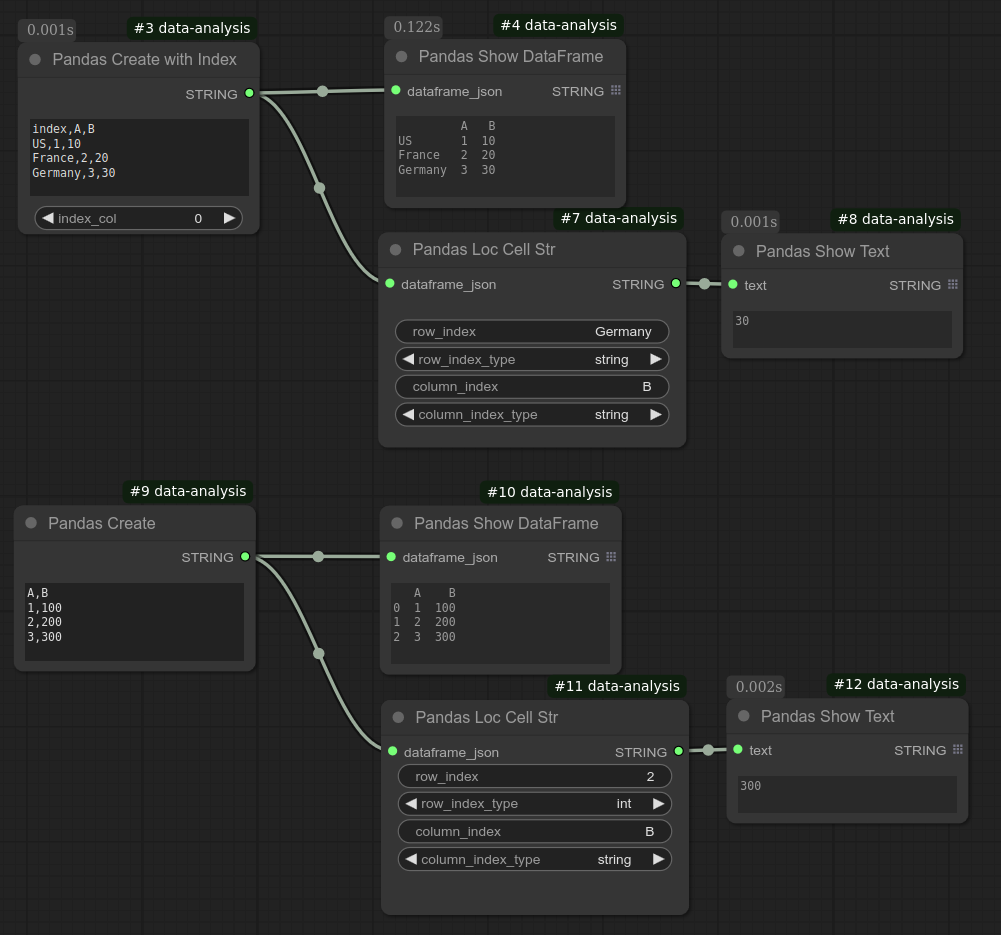
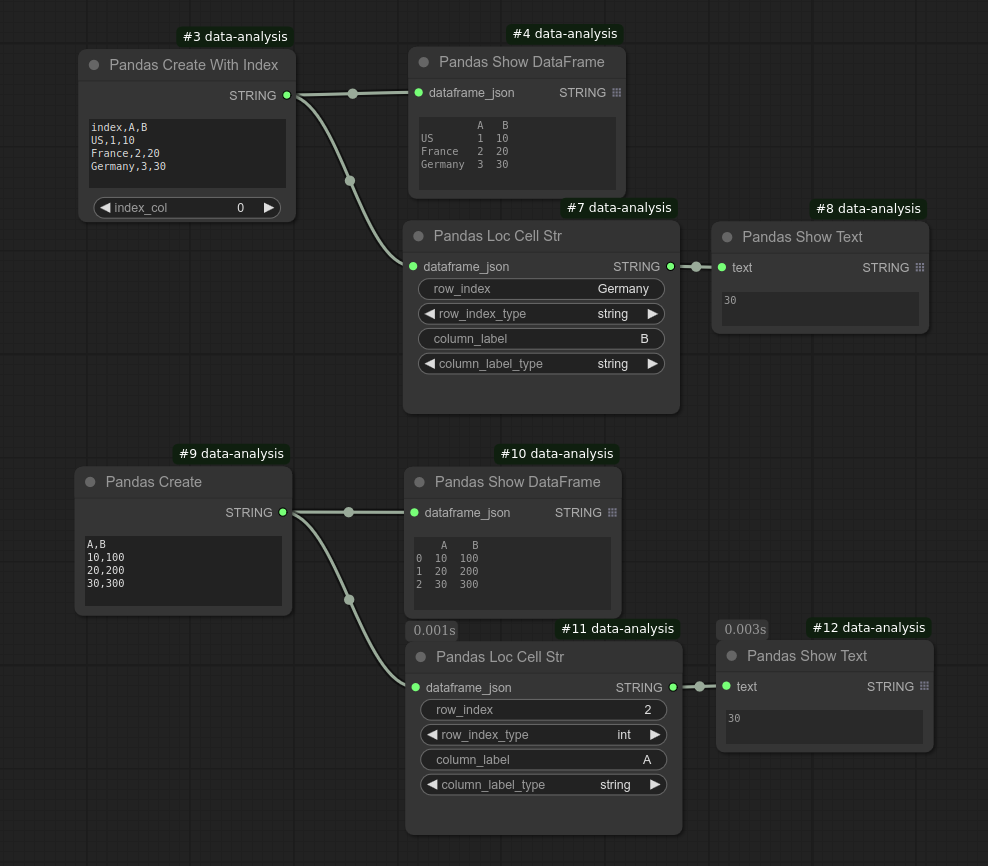
Replaced the occurrence of the words 'column index' with 'column label'.

diff --git a/modules/pandas_wrapper/pandas_loc_cell_str.py b/modules/pandas_wrapper/pandas_loc_cell_str.py
@@ -21,8 +21,8 @@ class PandasLocCellStr:
                 "dataframe_json": ("STRING", {"multiline": True}),
                 "row_index": ("STRING", {"default": ""}),
                 "row_index_type":(("string", "int"),),
-                "column_index": ("STRING", {"default": ""}),
-                "column_index_type":(("string", "int"),)
+                "column_label": ("STRING", {"default": ""}),
+                "column_label_type":(("string", "int"),)
             }
         }
 
@@ -33,8 +33,8 @@ class PandasLocCellStr:
     def cell(self, dataframe_json: str,
              row_index: str,
              row_index_type: str,
-             column_index: str,
-             column_index_type: str) -> tuple:
+             column_label: str,
+             column_label_type: str) -> tuple:
         """
         Selects specific cell from a pandas DataFrame.
 
@@ -42,8 +42,8 @@ class PandasLocCellStr:
             dataframe_json (str): A JSON string representation of the DataFrame.
             row_index (str): The row index (row label) for the cell.
             row_index_type (str): The data type of the row index.
-            column_index (str): The column index (row label) for the cell.
-            column_index_type (str): The data type of the column index.
+            column_label (str): The column label for the cell.
+            column_label_type (str): The data type of the column label.
              
         Returns:
             tuple: A tuple containing the value of the cell in string.
@@ -51,7 +51,7 @@ class PandasLocCellStr:
         # Deserialize JSON string to DataFrame
         df = pd.read_json(StringIO(dataframe_json))
         row_index = int(row_index) if row_index_type == "int" else row_index
-        column_index = int(column_index) if column_index_type == "int" else column_index
+        column_label = int(column_label) if column_label_type == "int" else column_label
 
-        value = df.loc[row_index, column_index]
+        value = df.loc[row_index, column_label]
         return (str(value),)

diff --git a/modules/pandas_wrapper/pandas_iloc_row_series.py b/modules/pandas_wrapper/pandas_iloc_row_series.py
@@ -8,7 +8,7 @@ class PandasIlocRowSeries:
     PandasLocRowSeries:
         A class for selecting a row from a pandas DataFrame and returning it as a Series.
         The row is specified by its integer position, similar to an index in other software.
-        Note: In Pandas, "index" refers to a unique label assigned to each row or column. See https://pandas.pydata.org/docs/reference/api/pandas.DataFrame.iloc.html
+        Note: In Pandas, "index" refers to a unique label assigned to each row. See https://pandas.pydata.org/docs/reference/api/pandas.DataFrame.iloc.html
     """
 
     @classmethod

diff --git a/docs/ug.md b/docs/ug.md
@@ -33,7 +33,7 @@ You can right-click, select **Add Node**, go to **Data Analysis**, and look for 
 | **Pandas Iloc Row Series**  | Select a row by row integer position |
 | **Pandas Iloc Rows DataFrame**  | Select rows by the list of row integer positions |
 | **Pandas Loc Row Series**  | Select a row by row label (index) |
-| **Pandas Loc Cell Str**  | Select a cell by row label (index) and column label (index) |
+| **Pandas Loc Cell Str**  | Select a cell by row label (index) and column label |
 | **Pandas Head**         | Extract the first few rows         |
 
 **Manipulating data**
@@ -111,10 +111,10 @@ For  **Pandas Iloc Row Series**, you only need to specify the row integer positi
 ![Pandas Iloc Row Series](images/iloc_row_series.png)
 
 Note that in Pandas, integer position is an equivalent of an index in other software,
-while "index" means a unique label assigned to each row or column. See [pandas.DataFrame.iloc.html](https://pandas.pydata.org/docs/reference/api/pandas.DataFrame.iloc.html).
+while "index" means a unique label assigned to each row. See [pandas.DataFrame.iloc.html](https://pandas.pydata.org/docs/reference/api/pandas.DataFrame.iloc.html).
 
-## Selecting a cell by row label (index) and column label (index)
-Use **Pandas Loc Cell Str**  for selecting a cell by row label (index) and column label (index). Data type of the labels needs to be specified as shown below:
+## Selecting a cell by row label (index) and column label
+Use **Pandas Loc Cell Str**  for selecting a cell by row label (index) and column label. Data type of the labels needs to be specified as shown below:
 
 ![Pandas Loc Cell Str](images/loc_cell_str.png)
 
